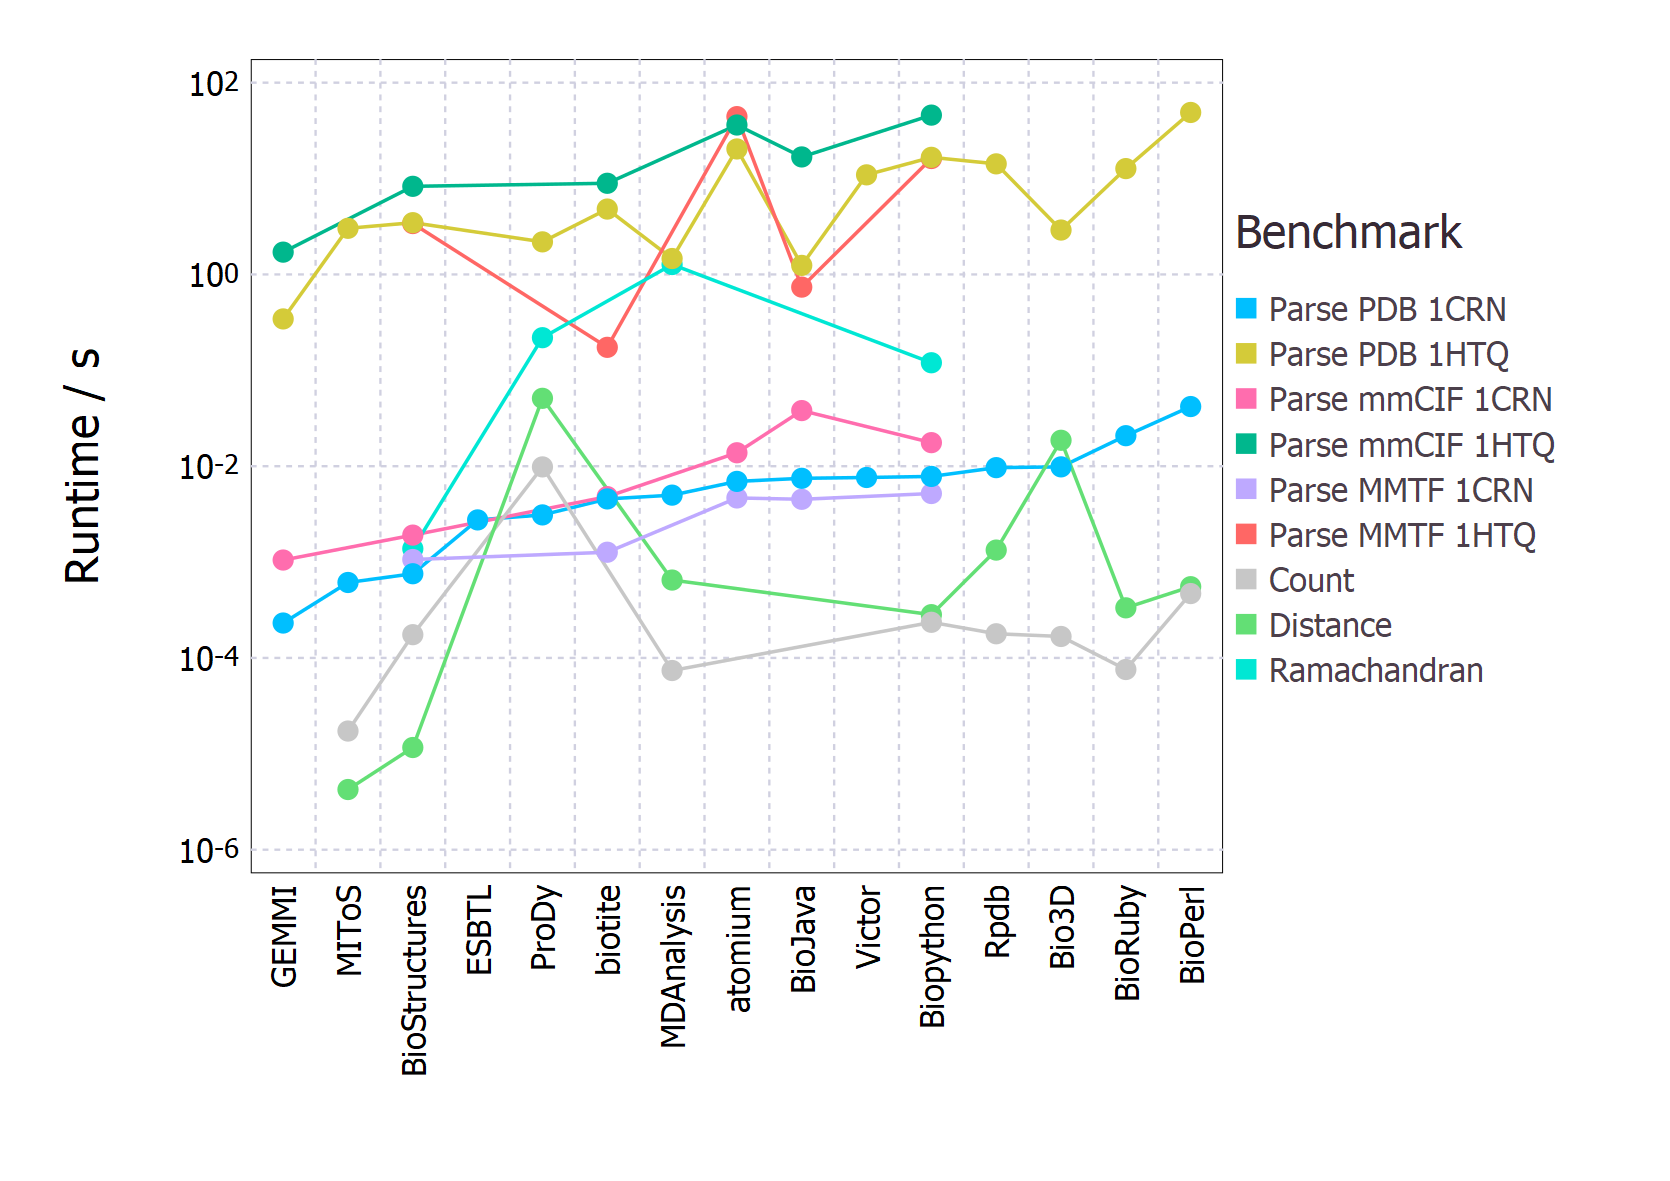
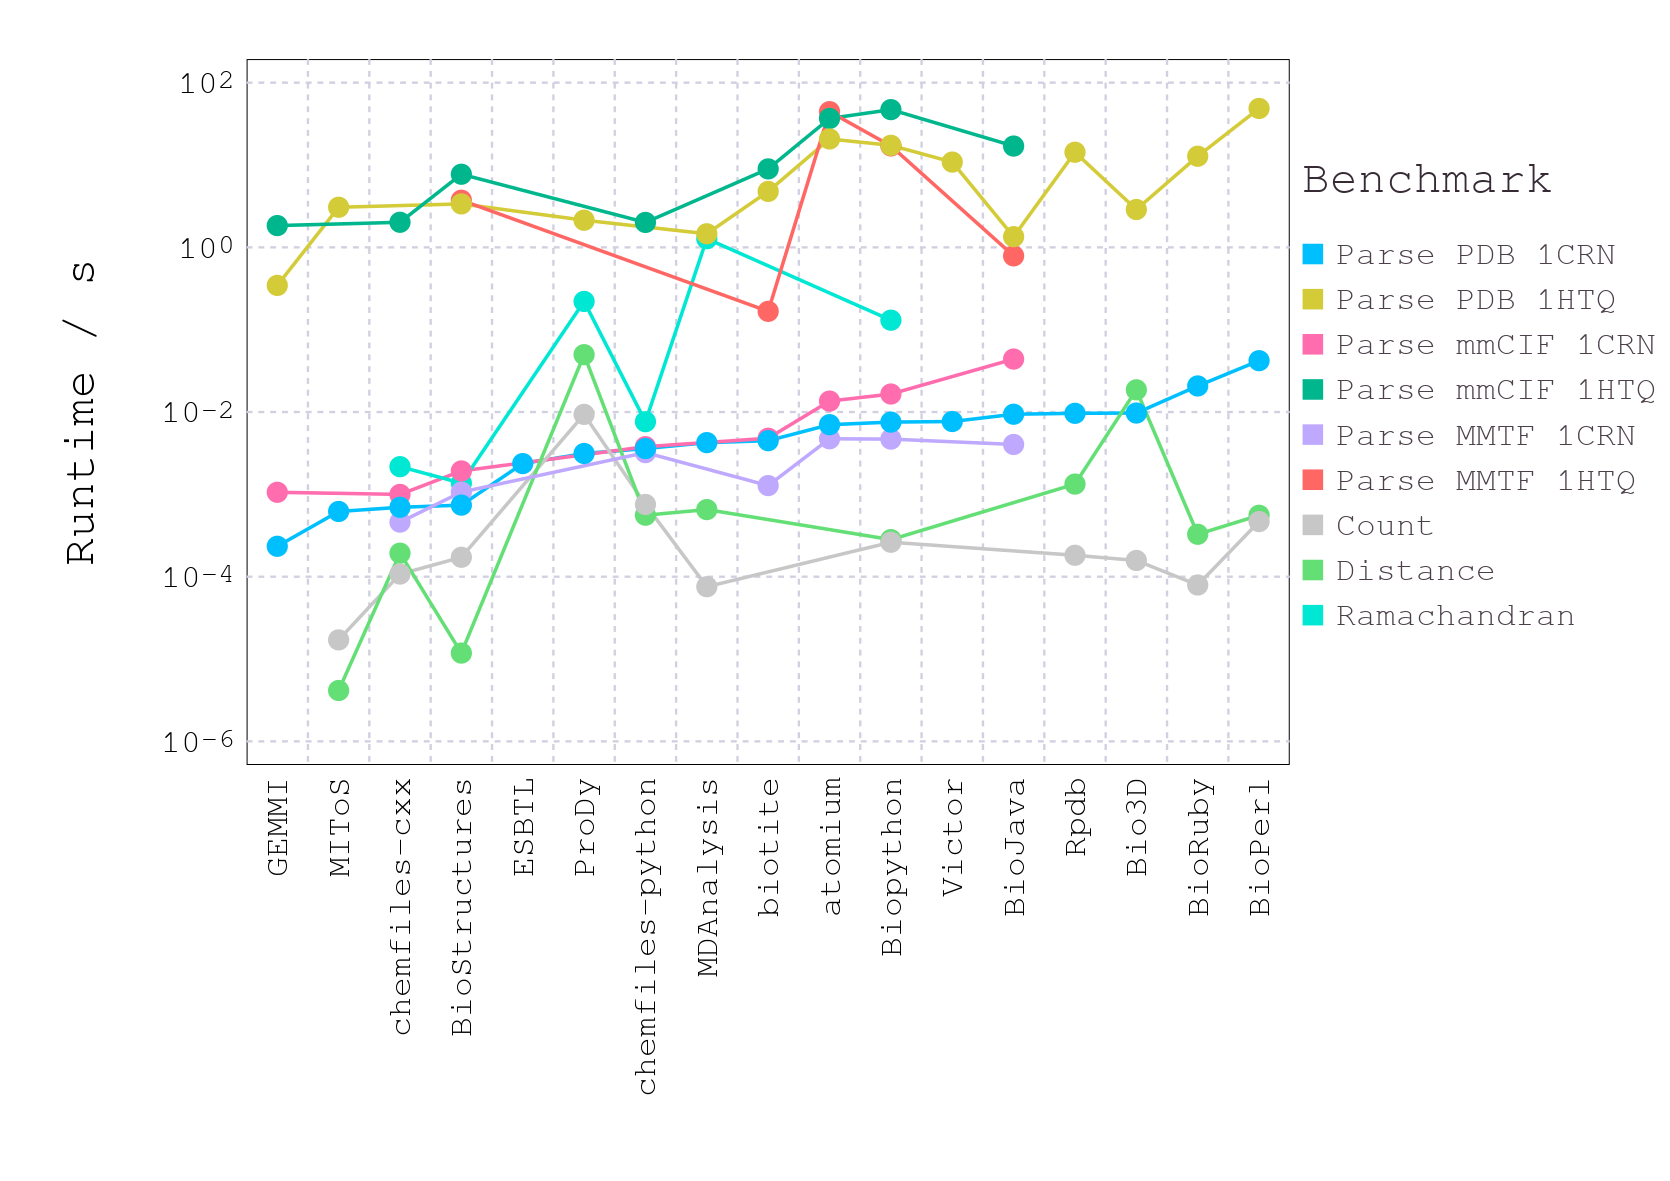
rerun for chemfiles, multi-model MDAnalysis parsing

diff --git a/MDAnalysis/parse_pdb.py b/MDAnalysis/parse_pdb.py
@@ -7,7 +7,7 @@ import MDAnalysis as mda
 pdb_filepath = sys.argv[1]
 
 start = time.time()
-mda.Universe(pdb_filepath)
+mda.coordinates.PDB.PDBReader(pdb_filepath)
 end = time.time()
 
 print(end - start)

diff --git a/README.md b/README.md
@@ -25,14 +25,14 @@ Benchmarks were carried out on an Intel Xeon CPU E5-1620 v3 3.50GHz x 8 processo
 
 ## Software
 
-Currently, 15 packages across 7 programming languages are included in the benchmarks:
+Currently, 16 packages across 7 programming languages are included in the benchmarks:
 * [BioStructures](https://github.com/BioJulia/BioStructures.jl) v0.10.0 running on Julia v1.3.1; times measured after JIT compilation.
 * [MIToS](https://github.com/diegozea/MIToS.jl) v2.4.0 running on Julia v1.3.1; times measured after JIT compilation.
-* [Biopython](http://biopython.org/wiki/Biopython) v1.76 running on Python v3.7.4.
-* [ProDy](http://prody.csb.pitt.edu) v1.10.11 running on Python v3.7.4.
-* [MDAnalysis](http://www.mdanalysis.org) v0.20.1 running on Python v3.7.4.
-* [biotite](https://www.biotite-python.org) v0.20.1 running on Python v3.7.4.
-* [atomium](https://github.com/samirelanduk/atomium) v1.0.2 running on Python v3.7.4.
+* [Biopython](http://biopython.org/wiki/Biopython) v1.76 running on Python v3.7.6.
+* [ProDy](http://prody.csb.pitt.edu) v1.10.11 running on Python v3.7.6.
+* [MDAnalysis](http://www.mdanalysis.org) v0.20.1 running on Python v3.7.6.
+* [biotite](https://www.biotite-python.org) v0.20.1 running on Python v3.7.6.
+* [atomium](https://github.com/samirelanduk/atomium) v1.0.2 running on Python v3.7.6.
 * [Bio3D](http://thegrantlab.org/bio3d/index.php) v2.4.1 running on R v3.6.2.
 * [Rpdb](https://cran.r-project.org/web/packages/Rpdb/index.html) v2.3 running on R v3.6.2.
 * [BioJava](https://biojava.org) v5.3.0 running on Java v1.8.0.
@@ -41,6 +41,7 @@ Currently, 15 packages across 7 programming languages are included in the benchm
 * [GEMMI](https://gemmi.readthedocs.io/en/latest/index.html) v0.3.6 compiled with gcc v8.3.1; there is also a Python interface but benchmarking was done in C++.
 * [Victor](http://protein.bio.unipd.it/victor/index.php/Main_Page) v1.0 compiled with gcc v7.3.1.
 * [ESBTL](http://esbtl.sourceforge.net/index.html) v1.0-beta01 compiled with gcc v7.3.1.
+* [chemfiles](https://chemfiles.org) v0.9.3 compiled with gcc v7.3.0 (C++ version) or running on Python v3.7.6 (Python version).
 
 ## Results
 
@@ -54,25 +55,25 @@ Note that direct comparison between these times should be treated with caution, 
 
 Each package supports these to varying degrees.
 
-|                       | BioStructures | MIToS         | Biopython     | ProDy         | MDAnalysis    | biotite       | atomium       | Bio3D         | Rpdb          | BioJava       | BioPerl       | BioRuby       | GEMMI         | Victor        | ESBTL         |
-| :-------------------- | :------------ | :------------ | :------------ | :------------ | :------------ | :------------ | :------------ | :------------ | :------------ | :------------ | :------------ | :------------ | :------------ | :------------ | :------------ |
-| Parse PDB 1CRN / ms   | 0.76          | 0.61          | 7.8           | 3.1           | 5.0           | 4.6           | 6.9           | 9.8           | 9.7           | 7.5           | 42.0          | 21.0          | 0.23          | 7.6           | 2.8           |
-| Parse PDB 1HTQ / s    | 3.5           | 3.0           | 17.0          | 2.2           | 1.5           | 4.8           | 20.0          | 2.9           | 14.0          | 1.2           | 49.0          | 13.0          | 0.34          | 11.0          | -             |
-| Parse mmCIF 1CRN / ms | 1.9           | -             | 18.0          | -             | -             | 4.8           | 14.0          | -             | -             | 38.0          | -             | -             | 1.0           | -             | -             |
-| Parse mmCIF 1HTQ / s  | 8.3           | -             | 46.0          | -             | -             | 8.9           | 36.0          | -             | -             | 17.0          | -             | -             | 1.7           | -             | -             |
-| Parse MMTF 1CRN / ms  | 1.1           | -             | 5.2           | -             | -             | 1.3           | 4.7           | -             | -             | 4.5           | -             | -             | -             | -             | -             |
-| Parse MMTF 1HTQ / s   | 3.4           | -             | 16.0          | -             | -             | 0.17          | 44.0          | -             | -             | 0.74          | -             | -             | -             | -             | -             |
-| Count / ms            | 0.17          | 0.017         | 0.24          | 9.8           | 0.074         | -             | -             | 0.17          | 0.18          | -             | 0.47          | 0.076         | -             | -             | -             |
-| Distance / ms         | 0.012         | 0.0042        | 0.28          | 51.0          | 0.65          | -             | -             | 19.0          | 1.3           | -             | 0.55          | 0.33          | -             | -             | -             |
-| Ramachandran / ms     | 1.4           | -             | 120.0         | 220.0         | 1300.0        | -             | -             | -             | -             | -             | -             | -             | -             | -             | -             |
-| Language              | Julia         | Julia         | Python        | Python        | Python        | Python        | Python        | R             | R             | Java          | Perl          | Ruby          | C++/Python    | C++           | C++           |
-| License               | MIT           | MIT           | Biopython     | MIT           | GPLv2         | BSD 3-Clause  | MIT           | GPLv2         | GPLv2/GPLv3   | LGPLv2.1      | GPL/Artistic  | Ruby          | MPLv2/LGPLv3  | GPLv3         | GPLv3         |
-| Hierarchichal parsing | ✓             | ✗             | ✓             | ✓             | ✓             | ✗             | ✓             | ✗             | ✗             | ✓             | ✓             | ✓             | ✓             | ✓             | ✓             |
-| Supports disorder     | ✓             | ✗             | ✓             | ✗             | ✗             | ✗             | ✗             | ✗             | ✗             | ✗             | ✗             | ✗             | ✓             | ✗             | ✓             |
-| Writes PDBs           | ✓             | ✓             | ✓             | ✓             | ✓             | ✓             | ✓             | ✓             | ✓             | ✓             | ✓             | ✗             | ✓             | ✓             | ✓             |
-| Parses PDB header     | ✗             | ✗             | ✓             | ✓             | ✗             | ✗             | ✓             | ✓             | ✓             | ✓             | ✗             | ✓             | ✓             | ✓             | ✗             |
-| Superimposition       | ✓             | ✓             | ✓             | ✓             | ✓             | ✓             | ✗             | ✓             | ✗             | ✓             | ✗             | ✗             | ✗             | ✗             | ✗             |
-| PCA                   | ✗             | ✗             | ✗             | ✓             | ✓             | ✗             | ✗             | ✓             | ✗             | ✗             | ✗             | ✗             | ✗             | ✗             | ✗             |
+|                       | BioStructures    | MIToS            | Biopython        | ProDy            | MDAnalysis       | biotite          | atomium          | Bio3D            | Rpdb             | BioJava          | BioPerl          | BioRuby          | GEMMI            | Victor           | ESBTL            | chemfiles-python | chemfiles-cxx    |
+| :-------------------- | :--------------- | :--------------- | :--------------- | :--------------- | :--------------- | :--------------- | :--------------- | :--------------- | :--------------- | :--------------- | :--------------- | :--------------- | :--------------- | :--------------- | :--------------- | :--------------- | :--------------- |
+| Parse PDB 1CRN / ms   | 0.74             | 0.62             | 7.5              | 3.1              | 4.2              | 4.5              | 7.0              | 9.7              | 9.6              | 9.4              | 42.0             | 21.0             | 0.23             | 7.7              | 2.4              | 3.6              | 0.7              |
+| Parse PDB 1HTQ / s    | 3.4              | 3.1              | 17.0             | 2.1              | 1.5              | 4.8              | 21.0             | 2.9              | 14.0             | 1.3              | 49.0             | 13.0             | 0.34             | 11.0             | -                | -                | -                |
+| Parse mmCIF 1CRN / ms | 1.9              | -                | 17.0             | -                | -                | 4.8              | 14.0             | -                | -                | 44.0             | -                | -                | 1.1              | -                | -                | 3.8              | 1.0              |
+| Parse mmCIF 1HTQ / s  | 7.7              | -                | 47.0             | -                | -                | 9.0              | 37.0             | -                | -                | 17.0             | -                | -                | 1.8              | -                | -                | 2.0              | 2.0              |
+| Parse MMTF 1CRN / ms  | 1.1              | -                | 4.7              | -                | -                | 1.3              | 4.7              | -                | -                | 4.0              | -                | -                | -                | -                | -                | 3.2              | 0.46             |
+| Parse MMTF 1HTQ / s   | 3.7              | -                | 17.0             | -                | -                | 0.17             | 44.0             | -                | -                | 0.79             | -                | -                | -                | -                | -                | -                | -                |
+| Count / ms            | 0.17             | 0.017            | 0.26             | 9.4              | 0.076            | -                | -                | 0.16             | 0.18             | -                | 0.47             | 0.079            | -                | -                | -                | 0.75             | 0.11             |
+| Distance / ms         | 0.012            | 0.0041           | 0.28             | 50.0             | 0.65             | -                | -                | 19.0             | 1.3              | -                | 0.56             | 0.33             | -                | -                | -                | 0.56             | 0.19             |
+| Ramachandran / ms     | 1.4              | -                | 130.0            | 220.0            | 1300.0           | -                | -                | -                | -                | -                | -                | -                | -                | -                | -                | 7.6              | 2.2              |
+| Language              | Julia            | Julia            | Python           | Python           | Python           | Python           | Python           | R                | R                | Java             | Perl             | Ruby             | C++/Python       | C++              | C++              | Python           | C++              |
+| License               | MIT              | MIT              | Biopython        | MIT              | GPLv2            | BSD 3-Clause     | MIT              | GPLv2            | GPLv2/GPLv3      | LGPLv2.1         | GPL/Artistic     | Ruby             | MPLv2/LGPLv3     | GPLv3            | GPLv3            | BSD 3-Clause     | BSD 3-Clause     |
+| Hierarchichal parsing | ✓                | ✗                | ✓                | ✓                | ✓                | ✗                | ✓                | ✗                | ✗                | ✓                | ✓                | ✓                | ✓                | ✓                | ✓                | ✗                | ✗                |
+| Supports disorder     | ✓                | ✗                | ✓                | ✗                | ✗                | ✗                | ✗                | ✗                | ✗                | ✗                | ✗                | ✗                | ✓                | ✗                | ✓                | ✗                | ✗                |
+| Writes PDBs           | ✓                | ✓                | ✓                | ✓                | ✓                | ✓                | ✓                | ✓                | ✓                | ✓                | ✓                | ✗                | ✓                | ✓                | ✓                | ✓                | ✓                |
+| Parses PDB header     | ✗                | ✗                | ✓                | ✓                | ✗                | ✗                | ✓                | ✓                | ✓                | ✓                | ✗                | ✓                | ✓                | ✓                | ✗                | ✗                | ✗                |
+| Superimposition       | ✓                | ✓                | ✓                | ✓                | ✓                | ✓                | ✗                | ✓                | ✗                | ✓                | ✗                | ✗                | ✗                | ✗                | ✗                | ✗                | ✗                |
+| PCA                   | ✗                | ✗                | ✗                | ✓                | ✓                | ✗                | ✗                | ✓                | ✗                | ✗                | ✗                | ✗                | ✗                | ✗                | ✗                | ✗                | ✗                |
 
 Benchmarks as a plot, sorted by increasing time to parse PDB 1CRN:
 

diff --git a/chemfiles/README.md b/chemfiles/README.md
@@ -1,5 +1,4 @@
-Compile with:
-
+Compile C++ version with:
 ```
 conda install chemfiles-lib
 make
